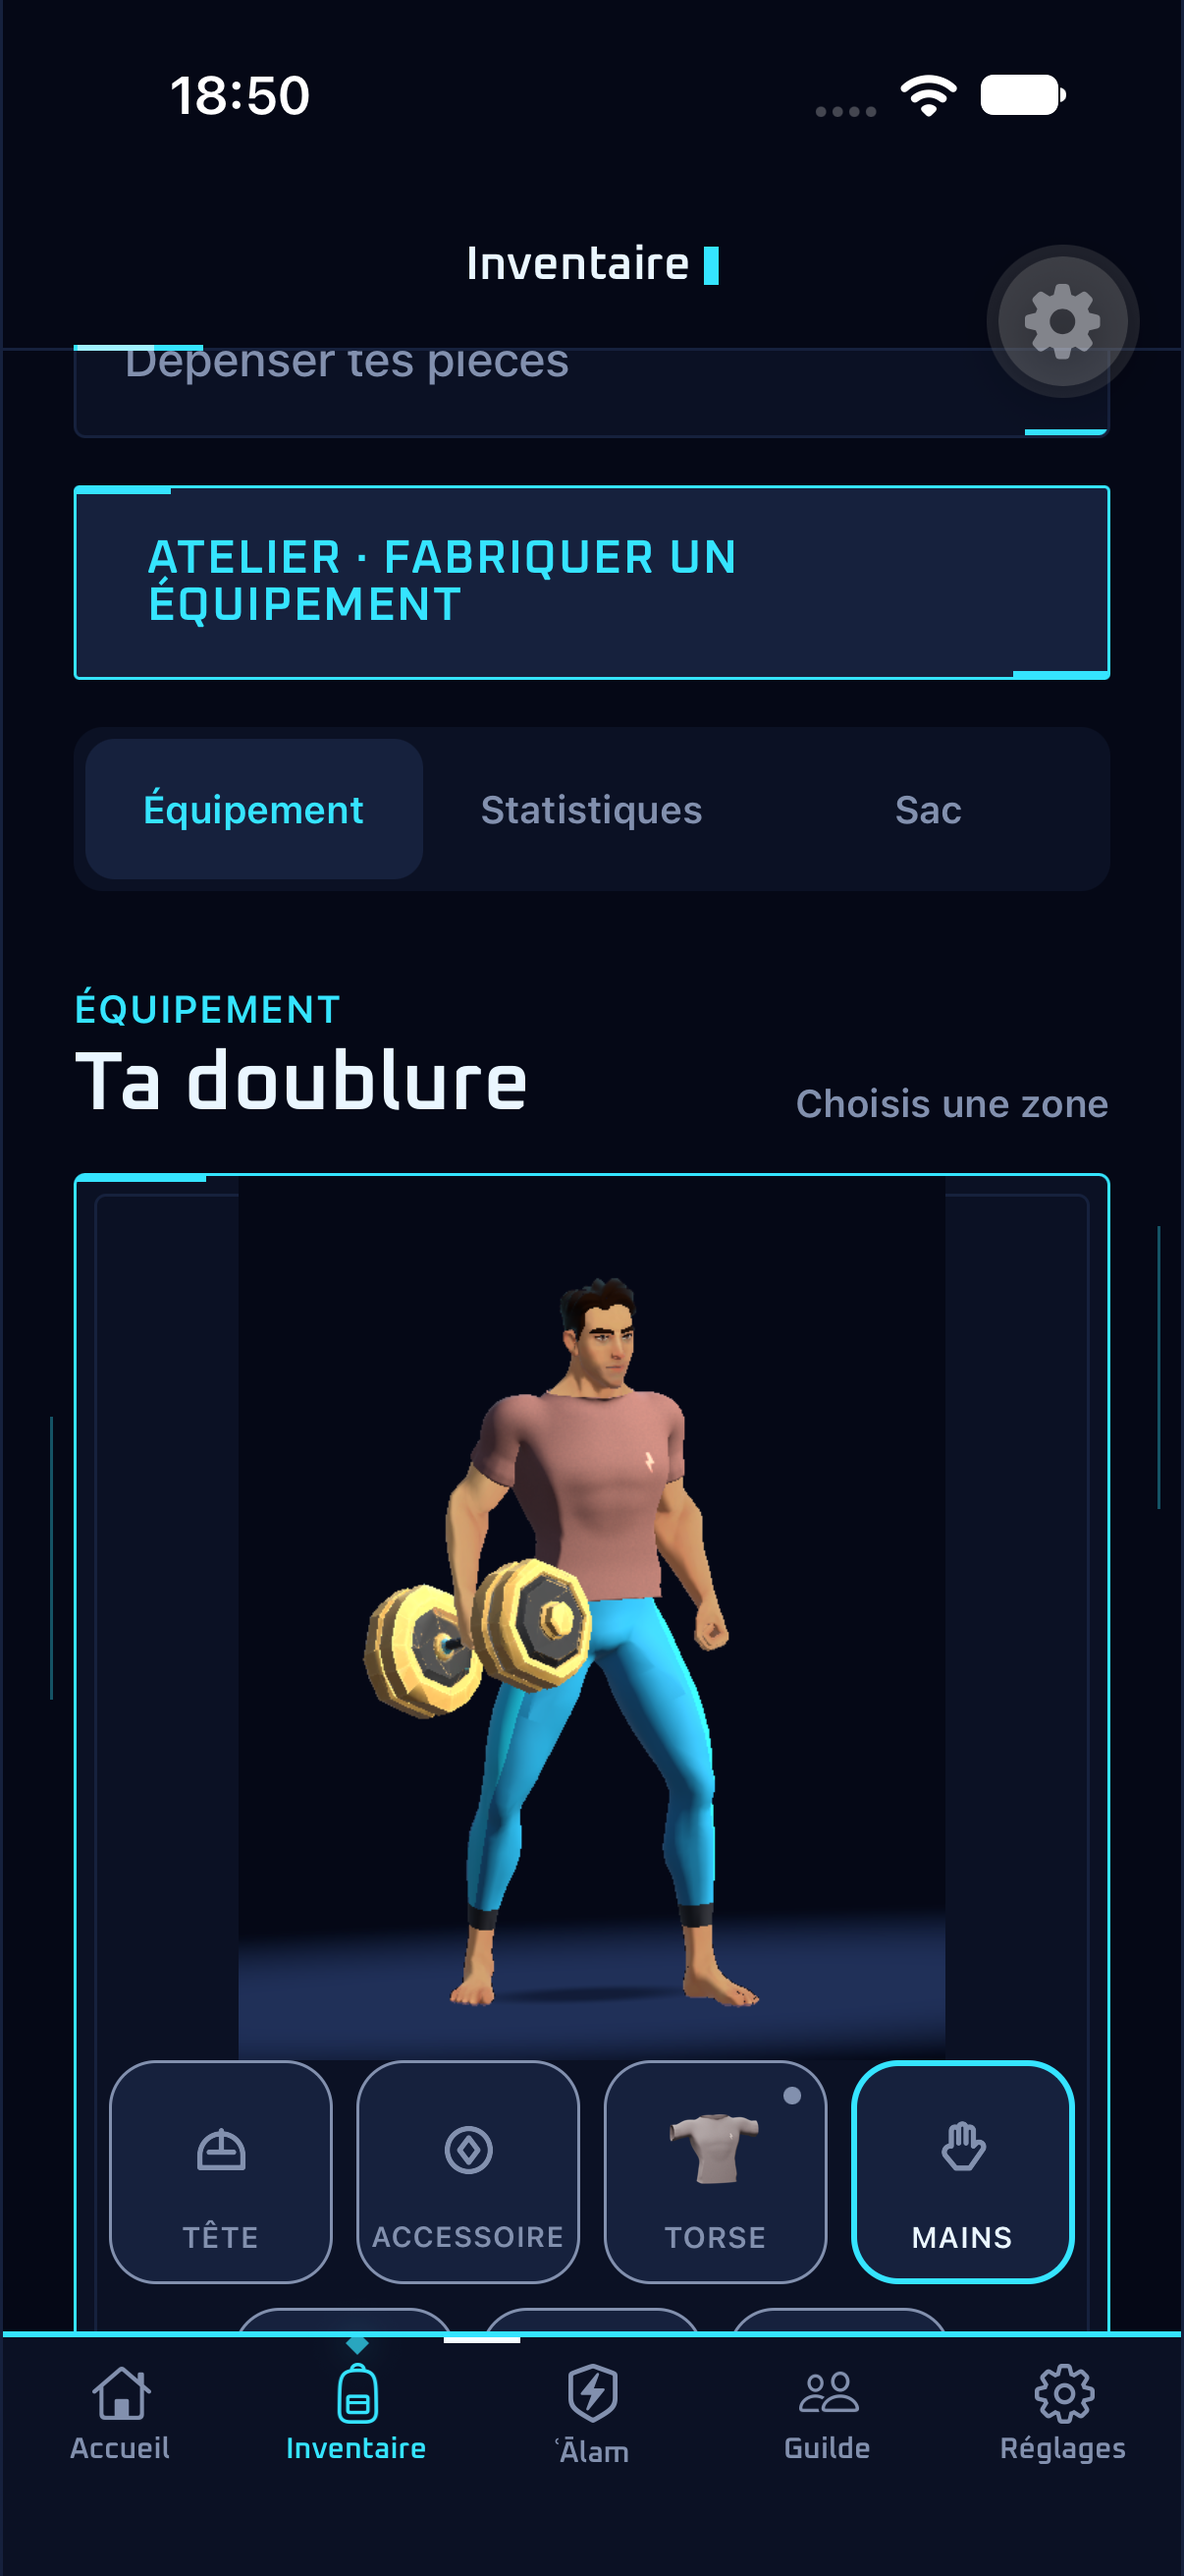
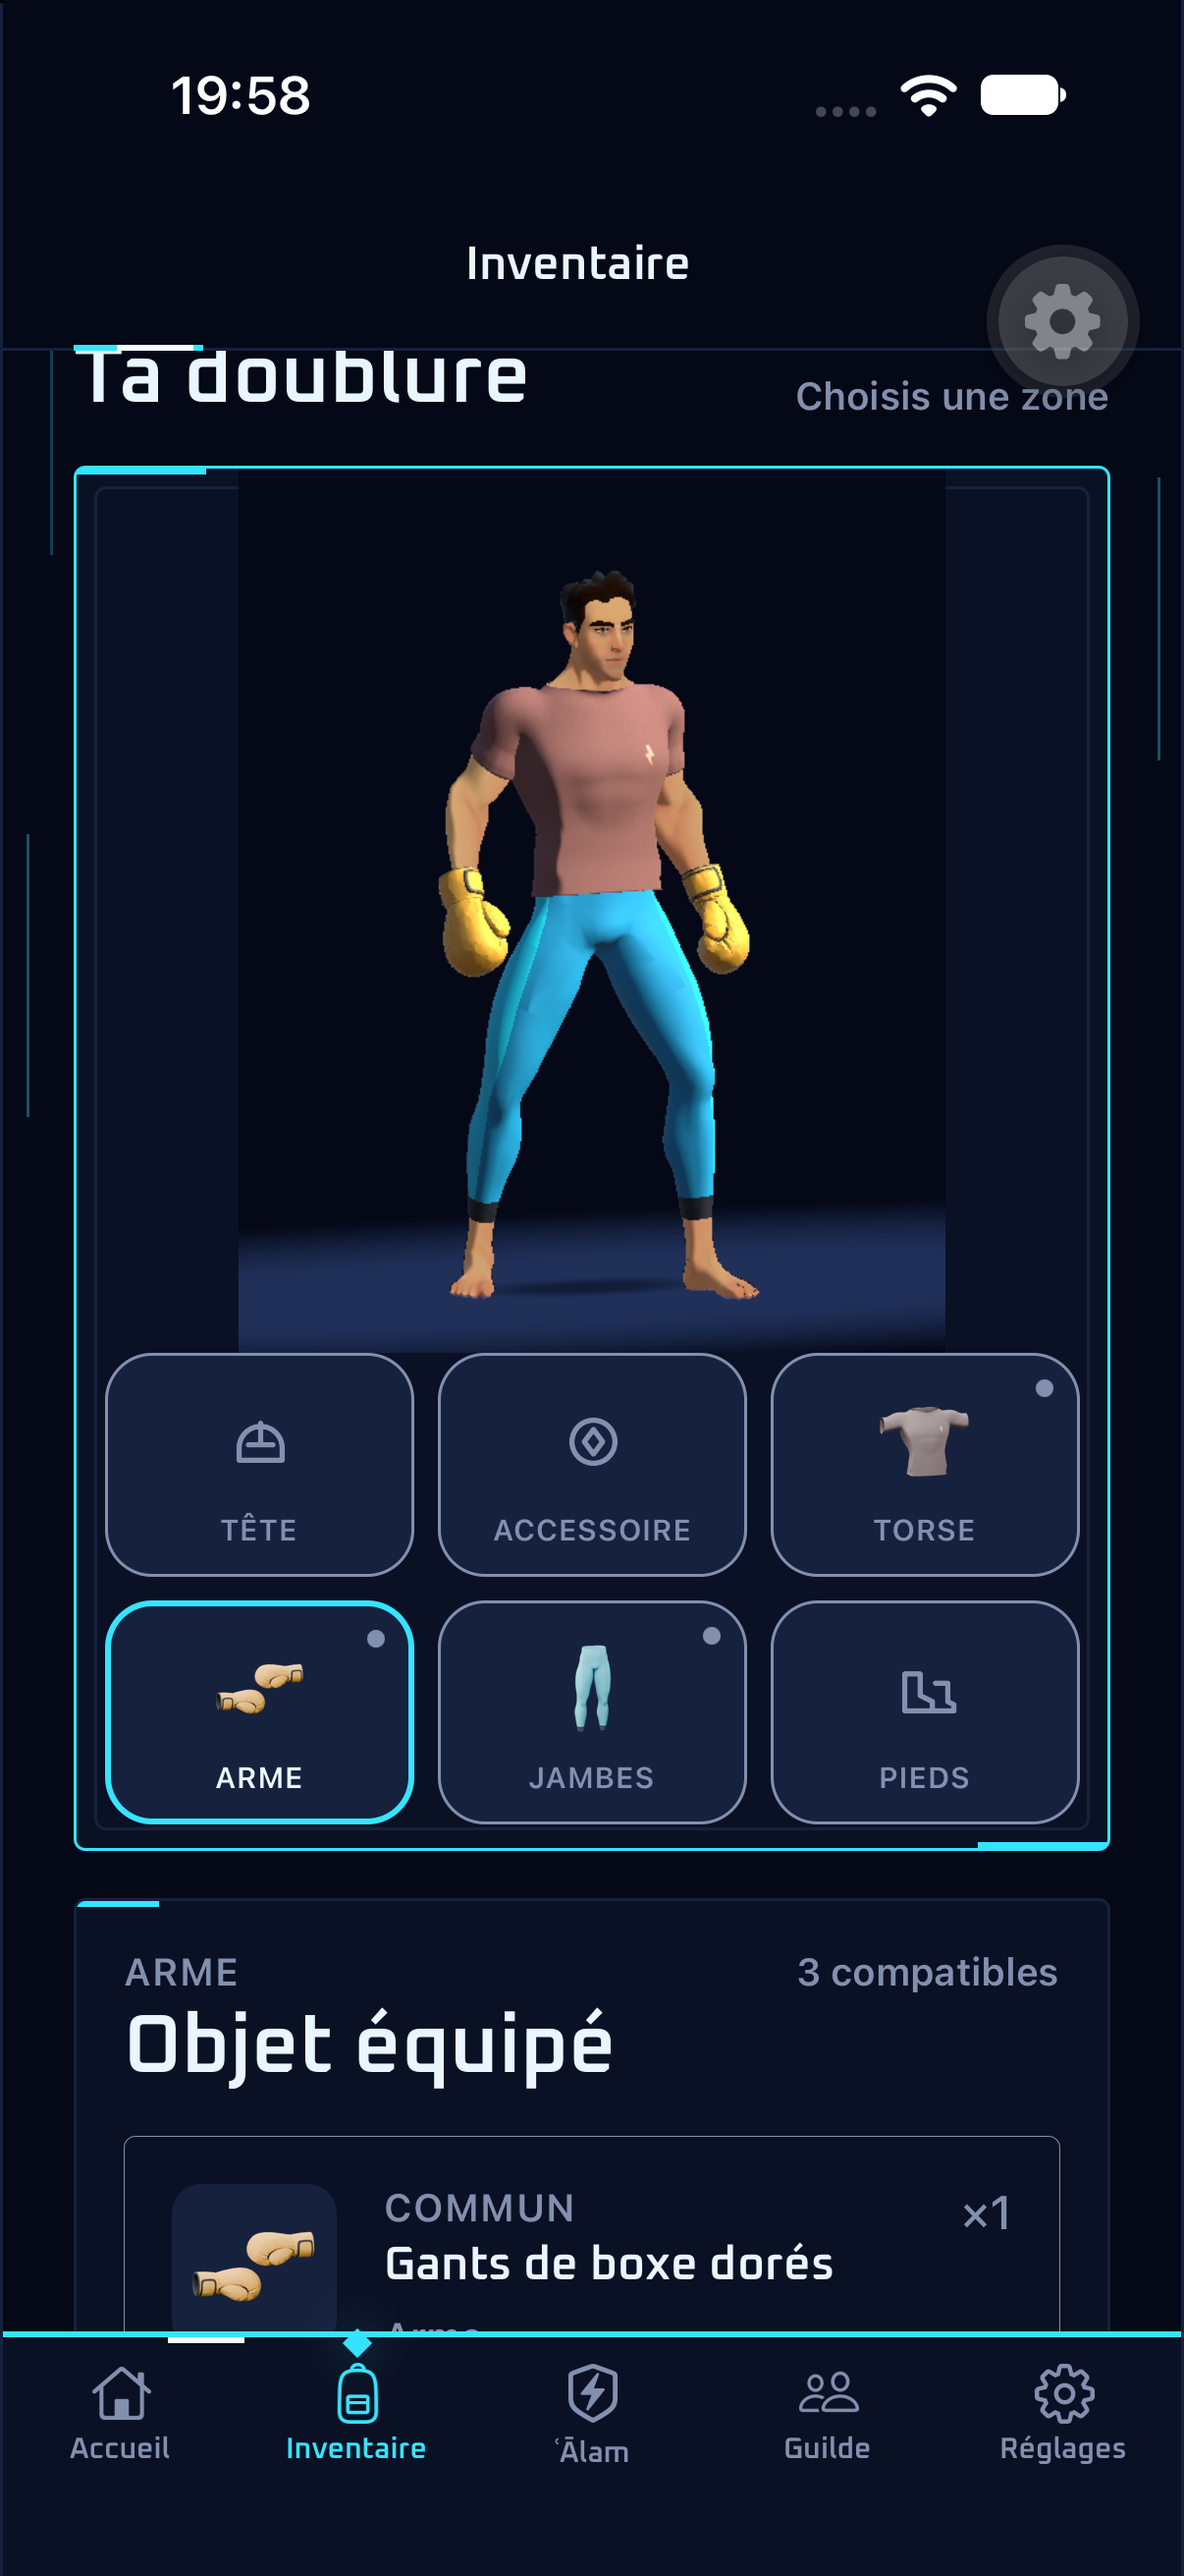
test(inventaire): valider les gants comme arme sur iOS
Documenter le parcours complet équipement, retrait, profils et relancement ainsi que les captures des six emplacements.

Closes #245

diff --git a/docs/ai/equipped-avatar.md b/docs/ai/equipped-avatar.md
@@ -46,3 +46,14 @@ Les captures du parcours sont inspectées à la taille iPhone.
 
 Sources : [Unity as a Library](https://docs.unity3d.com/6000.3/Documentation/Manual/UnityasaLibrary.html),
 [Expo Image SDK 57](https://docs.expo.dev/versions/v57.0.0/sdk/image/).
+
+## Preuve du 23 octobre 2026 — #245
+
+Types, lint, 571 tests Node et les 29 previews passent. Le flow complet passe en 7 min 29 s
+(`artifacts/e2e/2026-10-23_194901`), sans rebuild natif. Les captures à vide, bleu, doré,
+gants, retrait, vêtements, réglages, profil public et après relancement ont été inspectées.
+Une capture manuelle après ce passage montre l’avatar entier et ses six cases ensemble.
+Le même compte QA que #243 a été réutilisé ; aucun nouveau compte créé par le front.
+
+![Gants en Arme et six cases sous l’avatar](equipped-avatar/inventory.png)
+![Même équipement dans les réglages](equipped-avatar/settings.png)
